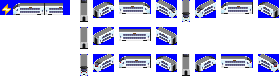
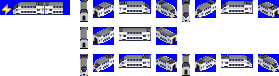
2022.11.29 공항철도 4차분 외

diff --git a/docs/changelog.md b/docs/changelog.md
@@ -1,3 +1,11 @@
+2022.11.29
+-----
+* 공항철도 2000호대 4차분 (추가)
+* ITX-새마을 DD (그래픽 개선)
+* 누리로DD (그래픽개선)
+* 누리로DD O-train & ITX 도색 (추가)
+* EMU-260 새마을 초기, 중기, 후기 도색 (추가)
+
 2022.11.04
 -----
 * EMU-260 & EMU-320 (그래픽 개선 & 도색 추가)
